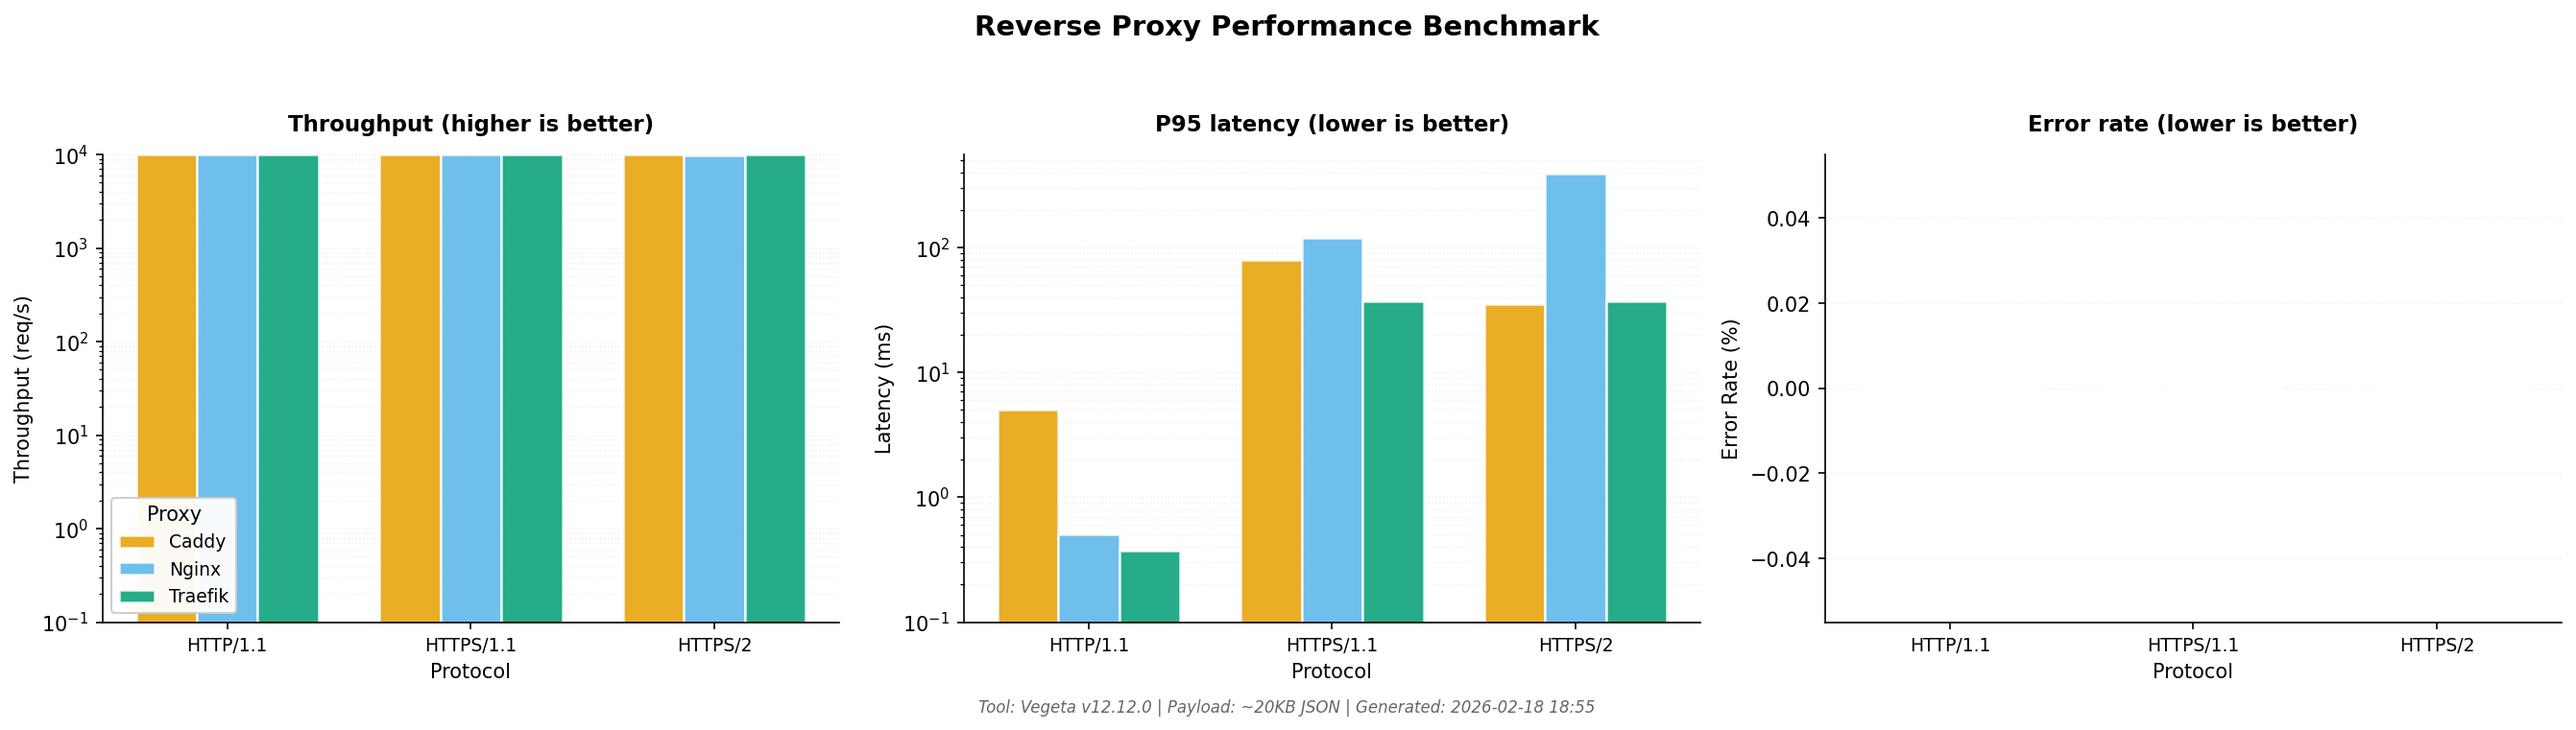
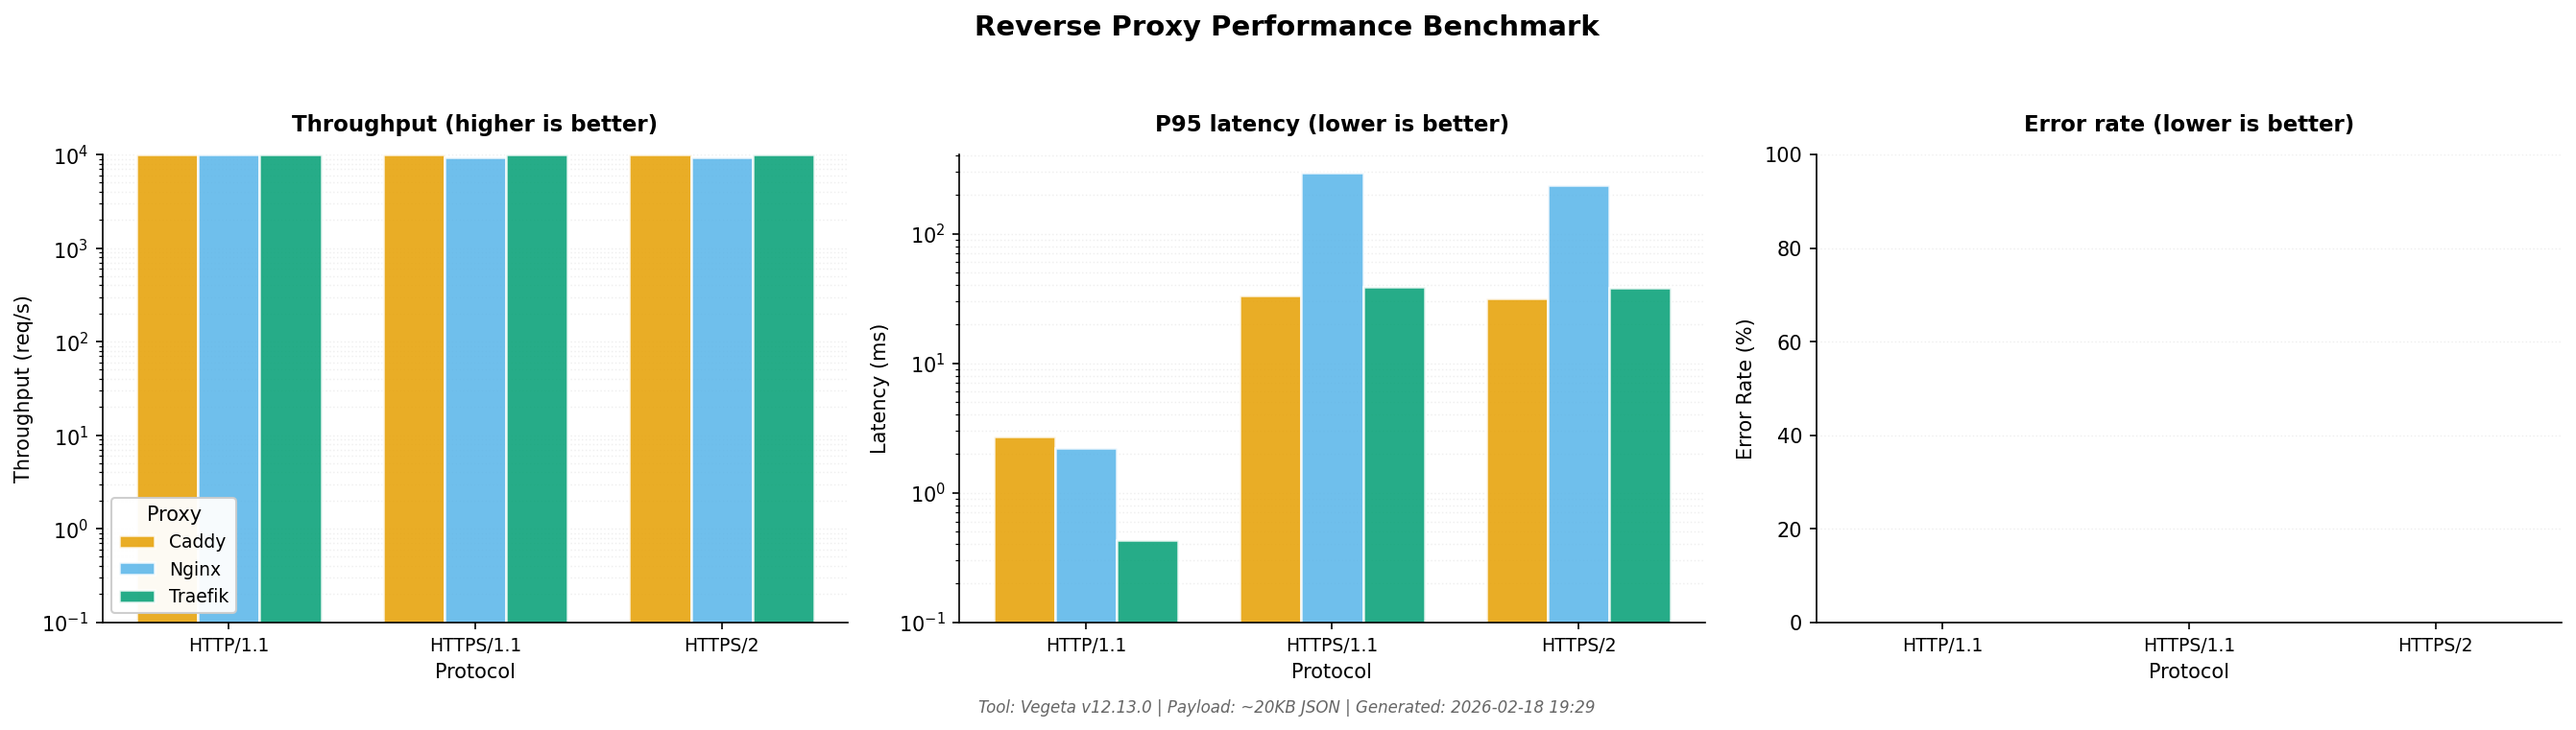
Fix backend capacity and clean up chart styling
- Increase backend worker_connections from 2048 to 16384 to handle 10K req/s
  - Add tcp_nopush, tcp_nodelay, keepalive optimizations to backend
  - Remove Prometheus export section from README
  - Change "publication-quality" to neutral language
  - Fix ruff linting errors (remove unused imports)
  - Change error rate chart to linear scale (0-100)
  - Update example.png with clean benchmark results

diff --git a/analyze_results.py b/analyze_results.py
@@ -2,7 +2,7 @@
 """
 Reverse Proxy Benchmark Analysis Script
 
-Parses vegeta JSON output and generates publication-quality comparison charts.
+Parses vegeta JSON output and generates comparison charts.
 """
 
 from __future__ import annotations
@@ -12,15 +12,11 @@ import os
 import sys
 from collections import defaultdict
 from datetime import datetime
-from typing import Any, TYPE_CHECKING
+from typing import Any
 
 try:
     import numpy as np
     import matplotlib.pyplot as plt
-
-    if TYPE_CHECKING:
-        from matplotlib import colormaps
-        from matplotlib.axes import Axes
 
     plt.rcParams.update({"figure.max_open_warning": 0})
     HAS_PLOT = True
@@ -160,7 +156,7 @@ def format_proxy_label(proxy: str) -> str:
 
 
 def create_scientific_chart(data: dict[str, dict[str, dict[str, Any]]]) -> None:
-    """Generate publication-quality benchmark comparison charts.
+    """Generate benchmark comparison charts.
 
     Design principles:
     - 1x3 layout focusing on key metrics: Throughput, Latency, Error Rate
@@ -288,14 +284,13 @@ def create_scientific_chart(data: dict[str, dict[str, dict[str, Any]]]) -> None:
             edgecolor="white", linewidth=1.2
         )
 
-    # Use log scale only if there are non-zero error rates
-    use_log_errors = any(v > 0 for v in all_err_rates)
     style_axis(
         ax_errors,
         ylabel="Error Rate (%)",
         title="Error rate (lower is better)",
-        use_log=use_log_errors
+        use_log=False
     )
+    ax_errors.set_ylim(0, 100)
 
     # Footer with metadata
     footer = (

diff --git a/README.md b/README.md
@@ -41,7 +41,6 @@ graph LR
 - **HTTP/2 First-Class Support** — Native HTTP/2 testing without workarounds
 - **JSON Output** — Structured data for automated analysis
 - **Static Binary** — Single binary, no dependencies
-- **Prometheus Export** — Built-in metrics export for observability
 - **Industry Proven** — Used by Cloudflare, AWS, and other major infrastructure teams
 
 ## Requirements
@@ -99,7 +98,7 @@ Based on Vegeta benchmarks with ~20KB JSON payload:
   - Latency (mean, P50, P90, P95, P99, max)
   - Success rate
   - Error breakdown
-- **Visualization**: matplotlib with publication-quality styling
+- **Visualization**: matplotlib with clean, readable charts
 
 ## Manual Testing
 
@@ -125,23 +124,6 @@ docker compose exec -T test-runner sh -c \
 
 docker compose down -v
 ```
-
-## Advanced: Prometheus Export
-
-Vegeta includes built-in Prometheus metrics export:
-
-```bash
-docker compose exec -T test-runner sh -c \
-  'echo "GET http://nginx:80/data.json" | vegeta attack -rate=1000 -duration=60s -prometheus-addr=:8880' &
-
-# Scrape metrics from http://localhost:8880/metrics
-```
-
-Available metrics:
-- `request_seconds` — Latency histogram
-- `request_bytes_in` — Response bytes received
-- `request_bytes_out` — Request bytes sent
-- `request_fail_count` — Failed request counter
 
 ## License
 
